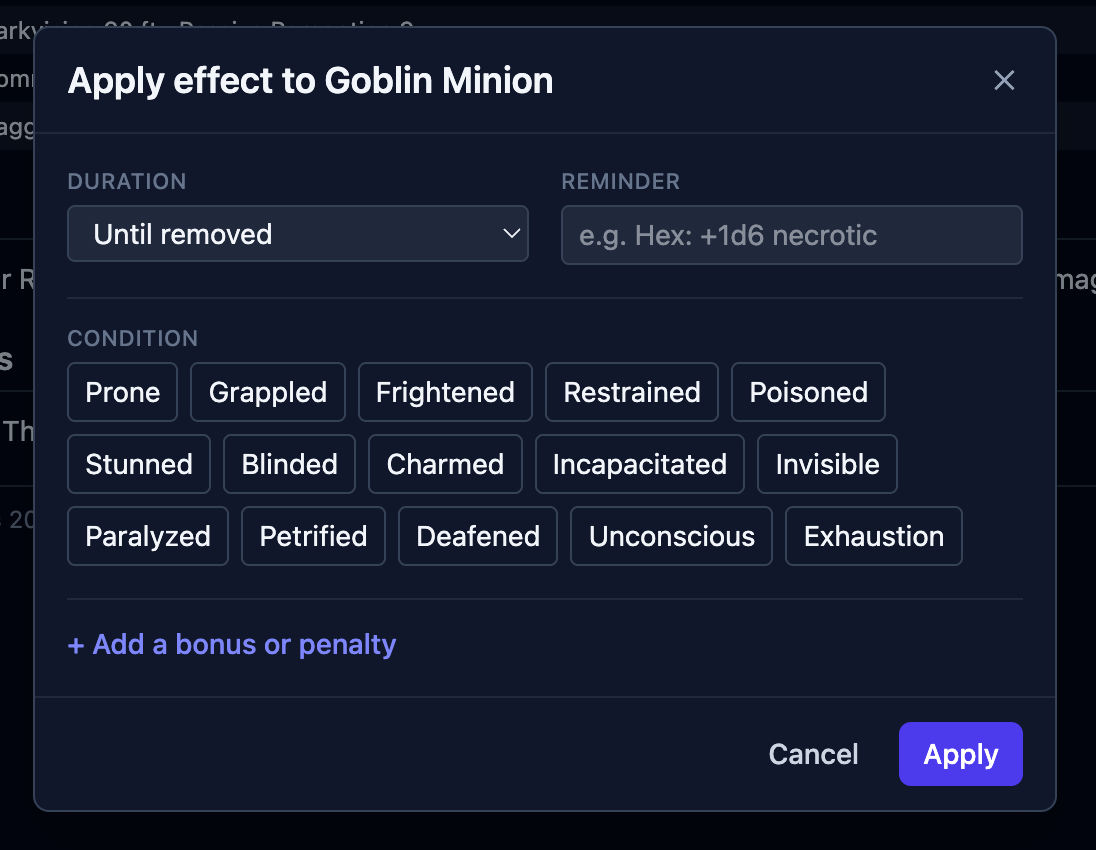
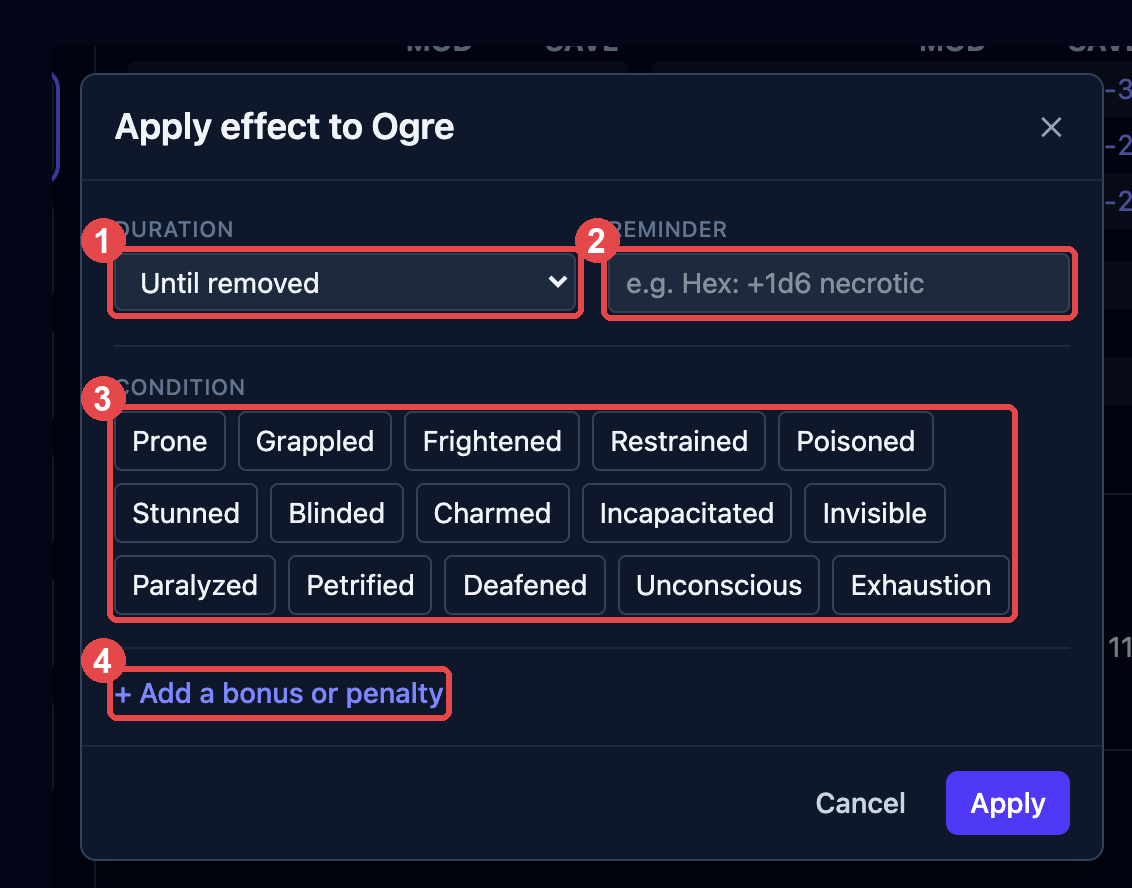
Docs: re-shoot six screenshots, add the difficulty readout
rule-sets.png was stale after the Rule sets → Libraries and Core Rules → Basic
Rules renames (issue #1): it now shows the Core/OpenFray/Other grouping, both
OpenFray libraries, the Homebrew creations row and the Sort by control.

apply-effect, effect-badge, applied-effects and roll-initiative each promised red
annotation in their alt text that the image never had — a screen-reader user was
told about highlighting that wasn't there. Re-shot with the annotation drawn, and
apply-effect's numbering now follows the page's own 1–4 list (duration, reminder,
condition, bonus or penalty) rather than the order the old alt text claimed.

encounter-difficulty.png is new, replacing the TODO comment in encounters.md.

Captures are 2× from the live console via a Playwright harness driving Chrome.

Changed region(s): [[0.0, 0.0306, 1.0, 0.9788]]

diff --git a/src/content/docs/fight/effects.md b/src/content/docs/fight/effects.md
@@ -34,7 +34,7 @@ Click the creature in the tracker, then click **Apply effect** in the controls b
 stat block. Everything happens in one box, and it stays open while you work — so you can
 put several things on the same creature before closing it.
 
-![The Apply effect box, with its duration, condition, modifier and reminder sections outlined in red and numbered one to four.](../../../assets/screens/apply-effect.png)
+![The Apply effect box with its duration, reminder, condition and bonus-or-penalty sections outlined in red and numbered one to four.](../../../assets/screens/apply-effect.png)
 
 **1. Set how long it lasts.** This setting applies to everything you add while the box is open, so start here:
 
@@ -108,7 +108,7 @@ reminder is a note, and you decide what it means.
 Each effect and reminder shows as a small **badge** under the combatants's name in the tracker — just
 the name, so the row stays easy to read at a glance.
 
-![A tracker row for an Ogre with a Frightened badge under its name, outlined in red.](../../../assets/screens/effect-badge.png)
+![A tracker row for an Ogre with its Frightened badge outlined in red and labeled as an effect on the creature.](../../../assets/screens/effect-badge.png)
 
 The details live in the **Applied effects** list, in the controls beside the stat block.
 There, each effect shows how it ends and carries its own buttons.

diff --git a/src/content/docs/reference/settings.md b/src/content/docs/reference/settings.md
@@ -17,7 +17,7 @@ needed. Open **Settings** from the gear at the top right.
 OpenFray ships with more than one edition of the rules, and with extra books of creatures.
 In **Settings**, tick the ones your table uses.
 
-![The Libraries panel in Settings, with Basic Rules 2024 ticked and the other libraries unticked.](../../../assets/screens/rule-sets.png)
+![The Libraries panel in Settings, grouped into Core, OpenFray and Other, with Basic Rules 2024 ticked.](../../../assets/screens/rule-sets.png)
 
 - **Basic Rules 2024** — the newer rules. On by default.
 - **Basic Rules 2014** — the older rules. Turn this on if that's what your table plays.

diff --git a/src/content/docs/fight/encounters.md b/src/content/docs/fight/encounters.md
@@ -30,7 +30,7 @@ While you're filling the board, the left of the footer rates the fight in front 
 adds up to. It changes every time you add or remove someone, so you can drop in one more
 foe and watch it move.
 
-<!-- TODO screenshot: encounter-difficulty.png — the difficulty readout in the footer, before the fight. Highlight: the tier badge and the XP total. -->
+![The difficulty readout in the footer, outlined in red, with arrows to the Deadly badge and the 3,375 XP total.](../../../assets/screens/encounter-difficulty.png)
 
 The rating is an estimate, and it's worth knowing what it's built from:
 

diff --git a/src/content/docs/getting-started.md b/src/content/docs/getting-started.md
@@ -58,7 +58,7 @@ tracker, where the round number appears once you're going:
 
 Before anything starts, OpenFray asks for everyone's initiative:
 
-![The Roll initiative box, with a player's roll field and the surprised toggle outlined in red.](../../assets/screens/roll-initiative.png)
+![The Roll initiative box, with a player's roll field and a creature's surprised toggle outlined in red and labeled.](../../assets/screens/roll-initiative.png)
 
 - Creatures are already rolled and filled in for you.
 - Players are blank. Type what each player rolled, or leave it blank and OpenFray rolls
